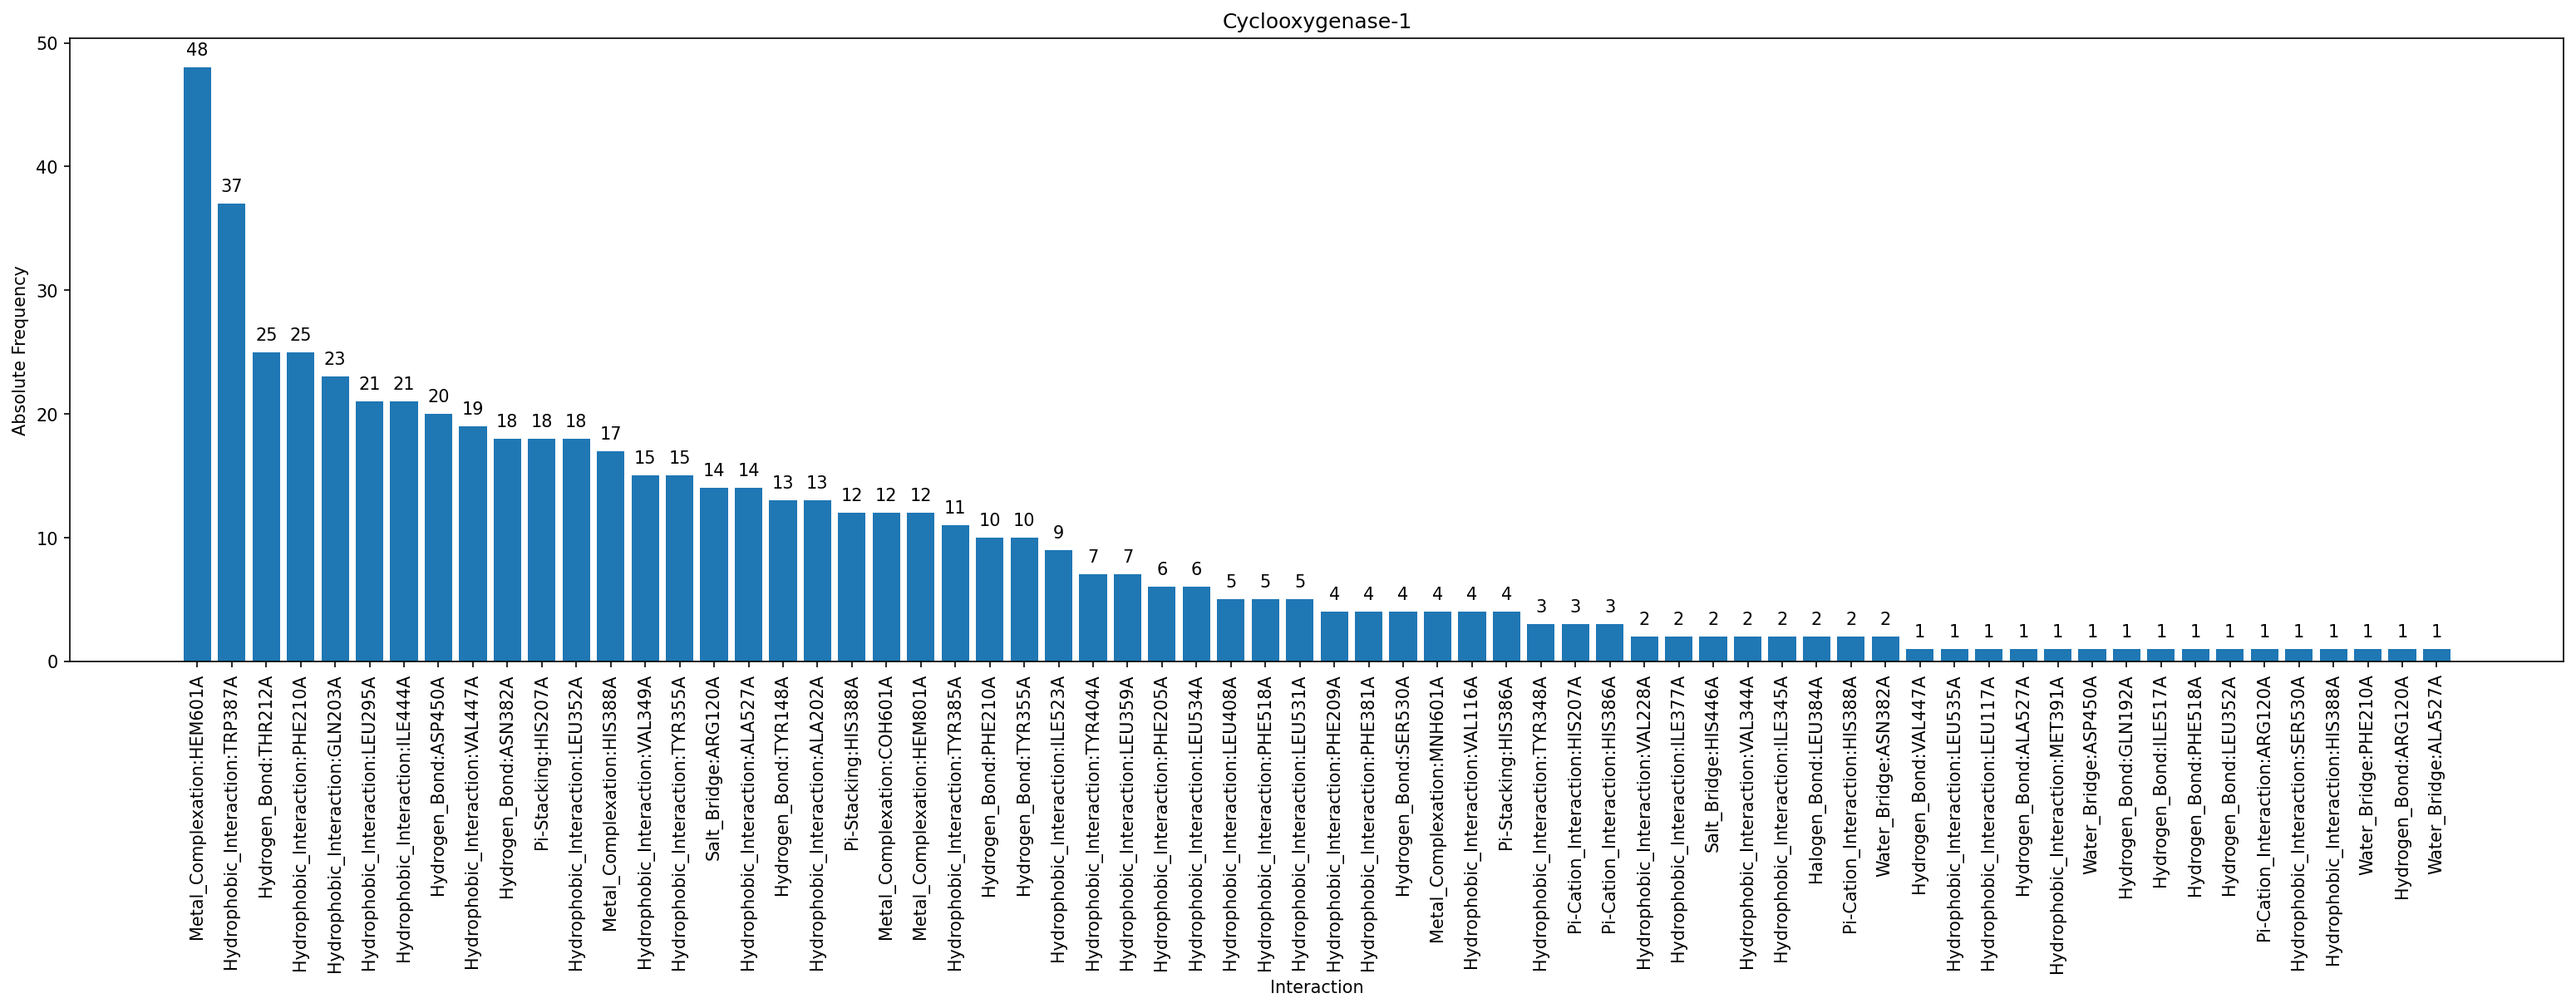
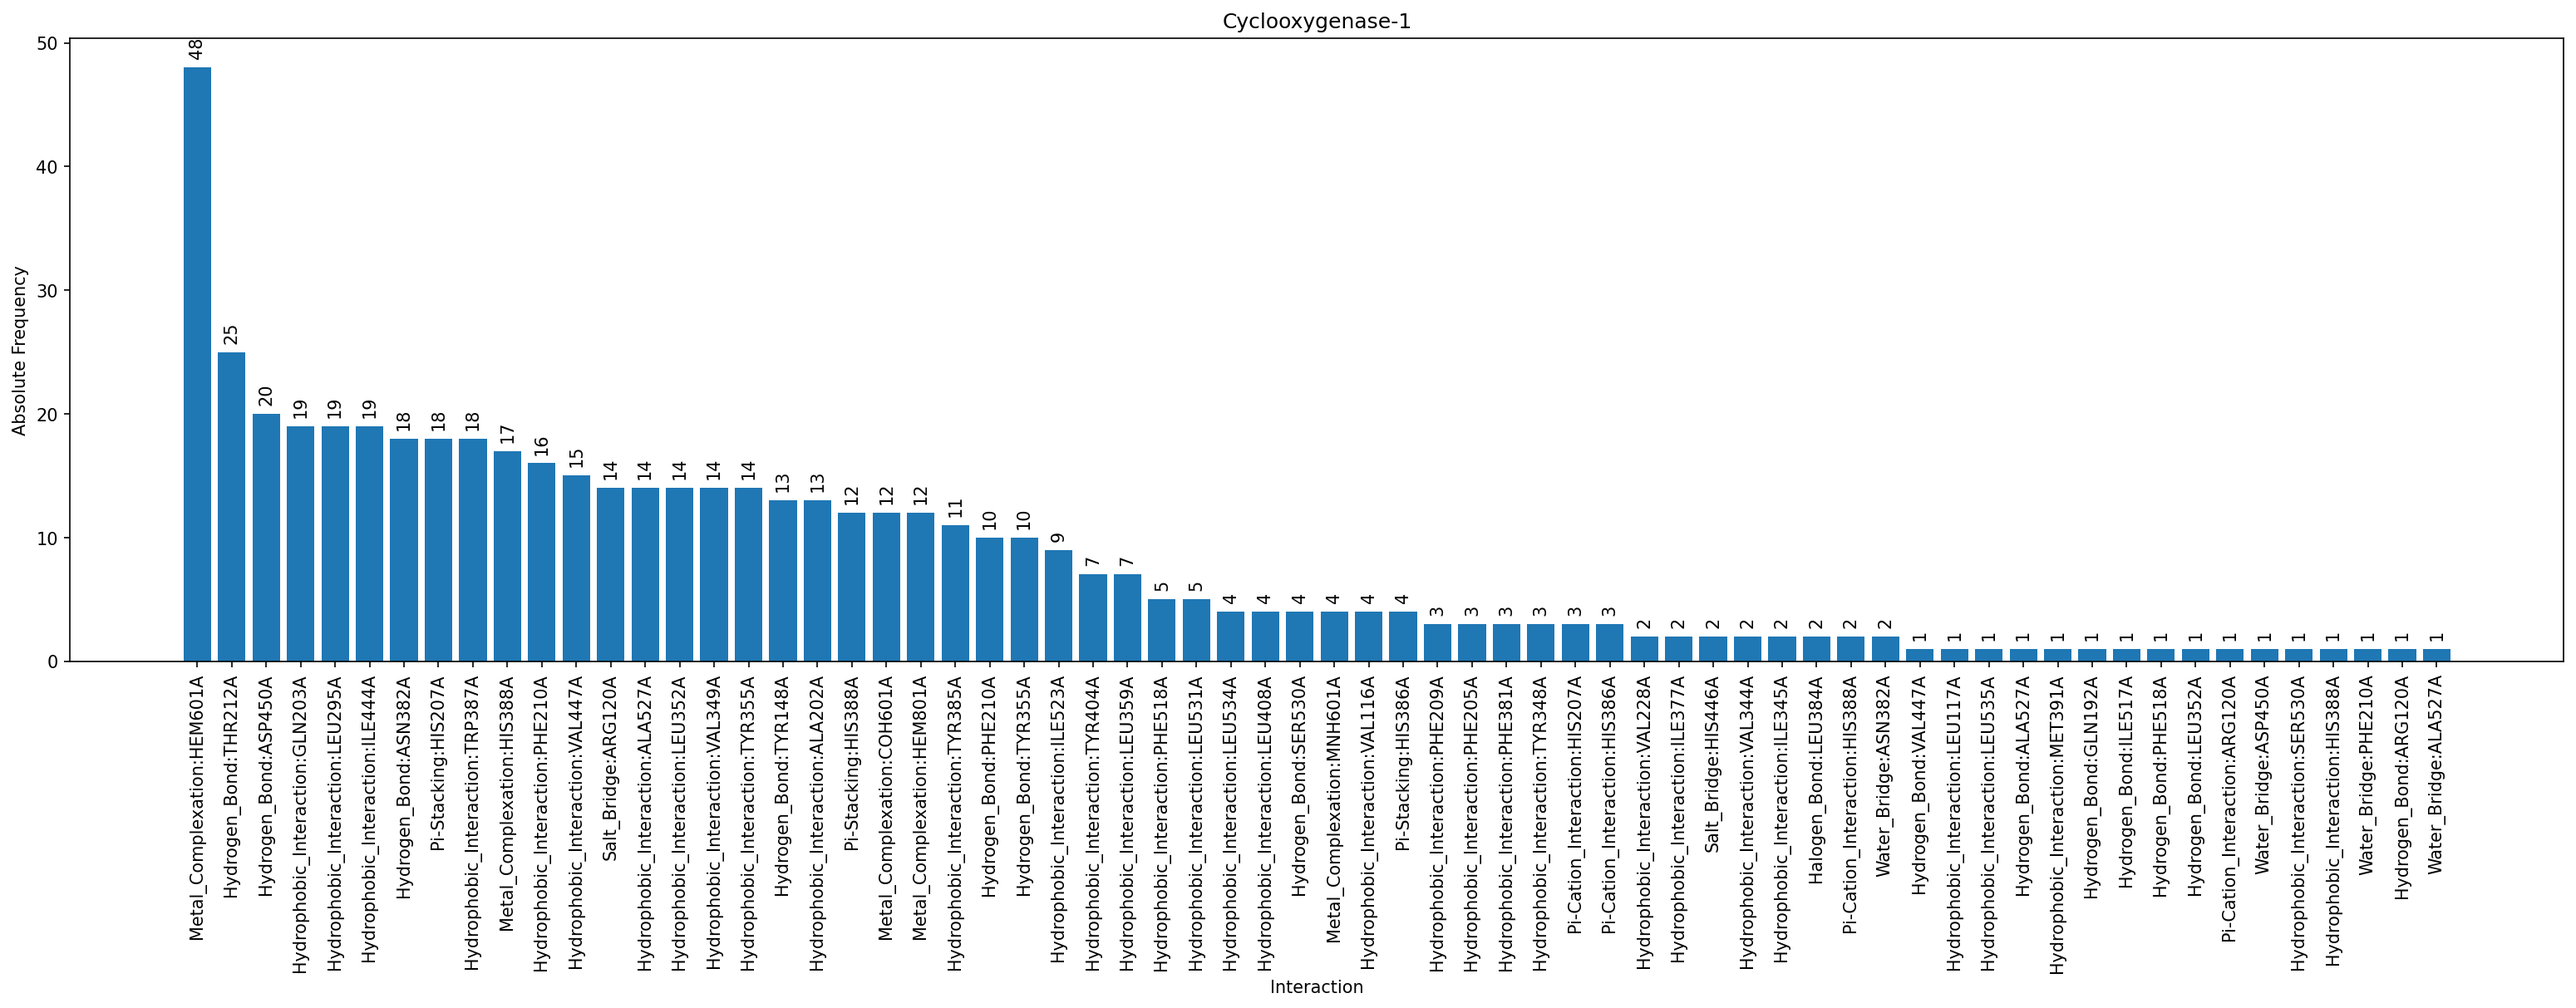
bump COX1 results to newer version

diff --git a/data/cyclooxygenase-1/plip_analysis.py b/data/cyclooxygenase-1/plip_analysis.py
@@ -22,13 +22,21 @@ if __name__ == '__main__':
     PDB_ENTRIES = list(df["PDB_ENTRY"])
     print("First 5 PDB entries:")
     print(PDB_ENTRIES[:5])
-    result = pa(PDB_ENTRIES, path = "structures")
+    result = pa(PDB_ENTRIES, path = "structures", normalize = False)
     r = result.save("results/cyclooxygenase-1")
     print("Result saved in:")
     print(r)
     r = result.to_csv("results/cyclooxygenase-1_freq.csv")
     result.plot("Cyclooxygenase-1", filename = "results/cyclooxygenase-1.jpg")
     result.plot("Cyclooxygenase-1", filename = "results/cyclooxygenase-1.png")
+    # normalized analysis
+    result = pa(PDB_ENTRIES, path = "structures", normalize = True)
+    r = result.save("results/cyclooxygenase-1_normalized")
+    print("Result saved in:")
+    print(r)
+    r = result.to_csv("results/cyclooxygenase-1_normalized_freq.csv")
+    result.plot("Cyclooxygenase-1", filename = "results/cyclooxygenase-1_normalized.jpg")
+    result.plot("Cyclooxygenase-1", filename = "results/cyclooxygenase-1_normalized.png")
 
     # clean up
     os.remove("PLIPAnalyzer.py")
